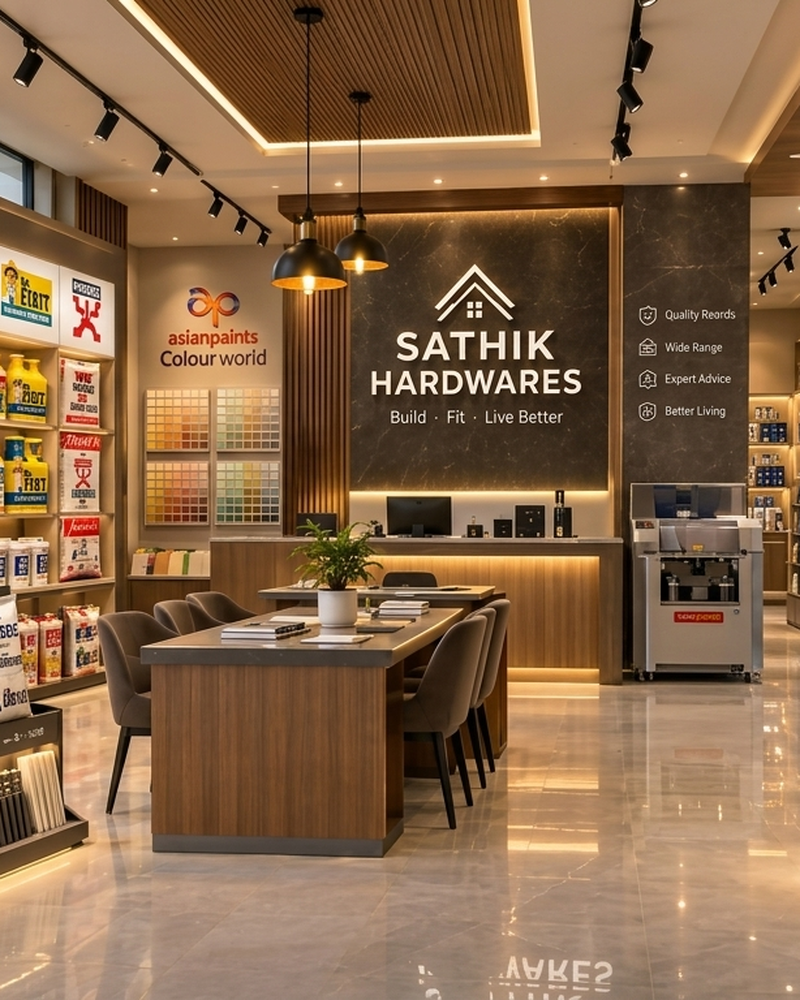
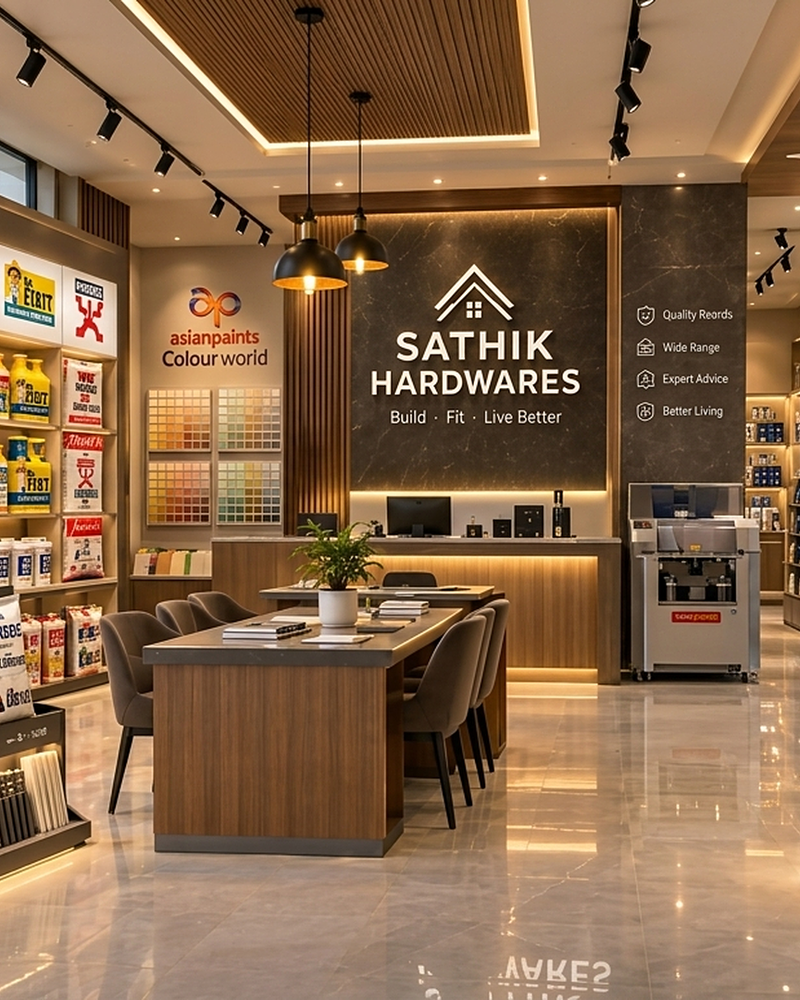
UI Price changes-3

diff --git a/static/css/home.css b/static/css/home.css
@@ -1586,29 +1586,32 @@
   z-index: 2;
   width: 100%;
   height: 100%;
-  object-fit: cover;
+  object-fit: contain;
+  object-position: center;
   transition: transform 0.5s ease;
 }
 
-.showroom-img-frame:hover img {
+.showroom-img-frame:hover .showroom-main-img {
   transform: scale(1.03);
 }
 
 .showroom-badge-tag {
   position: absolute;
-  top: 0.75rem;
-  left: 0.75rem;
-  background: rgba(15, 23, 42, 0.9);
+  bottom: 0.65rem;
+  left: 0.65rem;
+  background: rgba(15, 23, 42, 0.92);
   backdrop-filter: blur(8px);
   color: #ffffff;
-  font-size: 0.7rem;
+  font-size: 0.68rem;
   font-weight: 700;
   padding: 0.25rem 0.65rem;
   border-radius: 50px;
   border: 1px solid rgba(255, 255, 255, 0.25);
   text-transform: uppercase;
   letter-spacing: 0.05em;
-  z-index: 2;
+  z-index: 5;
+  pointer-events: none;
+  box-shadow: 0 2px 8px rgba(0, 0, 0, 0.35);
 }
 
 .showroom-details {
